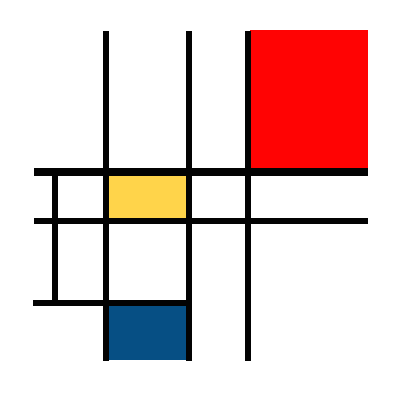
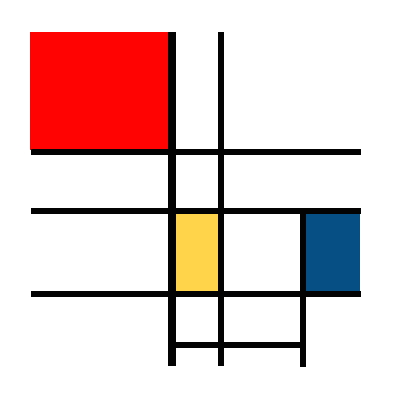
Finished rotate functions

diff --git a/Script.cpp b/Script.cpp
@@ -108,9 +108,20 @@ namespace prog
                 crop();
                 continue;
             }
-            // TODO ...
+            if (command == "rotate_left")
+            {
+                rotate_left();
+                continue;
+            }
+            if (command == "rotate_right")
+            {
+                rotate_right();
+                continue;
+            }
         }
     }
+    // TODO ...
+
     void Script::open()
     {
         // Replace current image (if any) with image read from PNG file.
@@ -277,5 +288,44 @@ namespace prog
         Image *temporary_addr = this->image;
         this->image = new_img;
         delete temporary_addr;
+    }
+
+    void Script::rotate_left()
+    {
+        // Transpose the matrix (swap the coordinates of each pixel) and then mirror it vertically
+        int h = this->image->height();
+        int w = this->image->width();
+        Image *new_img = new Image(h, w);
+        for (int i = 0; i < h; i++)
+        {
+            for (int j = 0; j < w; j++)
+            {
+                new_img->at(i, j) = this->image->at(j, i);
+            }
+        }
+        Image *temporary_addr = this->image;
+        this->image = new_img;
+        delete temporary_addr;
+        this->v_mirror();
+    }
+
+    void Script::rotate_right()
+    {
+
+        // Transpose the matrix (swap the coordinates of each pixel) and then mirror it horizontally
+        int h = this->image->height();
+        int w = this->image->width();
+        Image *new_img = new Image(h, w);
+        for (int i = 0; i < h; i++)
+        {
+            for (int j = 0; j < w; j++)
+            {
+                new_img->at(i, j) = this->image->at(j, i);
+            }
+        }
+        Image *temporary_addr = this->image;
+        this->image = new_img;
+        delete temporary_addr;
+        this->h_mirror();
     }
 }

diff --git a/Script.hpp b/Script.hpp
@@ -34,6 +34,8 @@ namespace prog
     void v_mirror();
     void add();
     void crop();
+    void rotate_left();
+    void rotate_right();
   };
 }
 #endif
